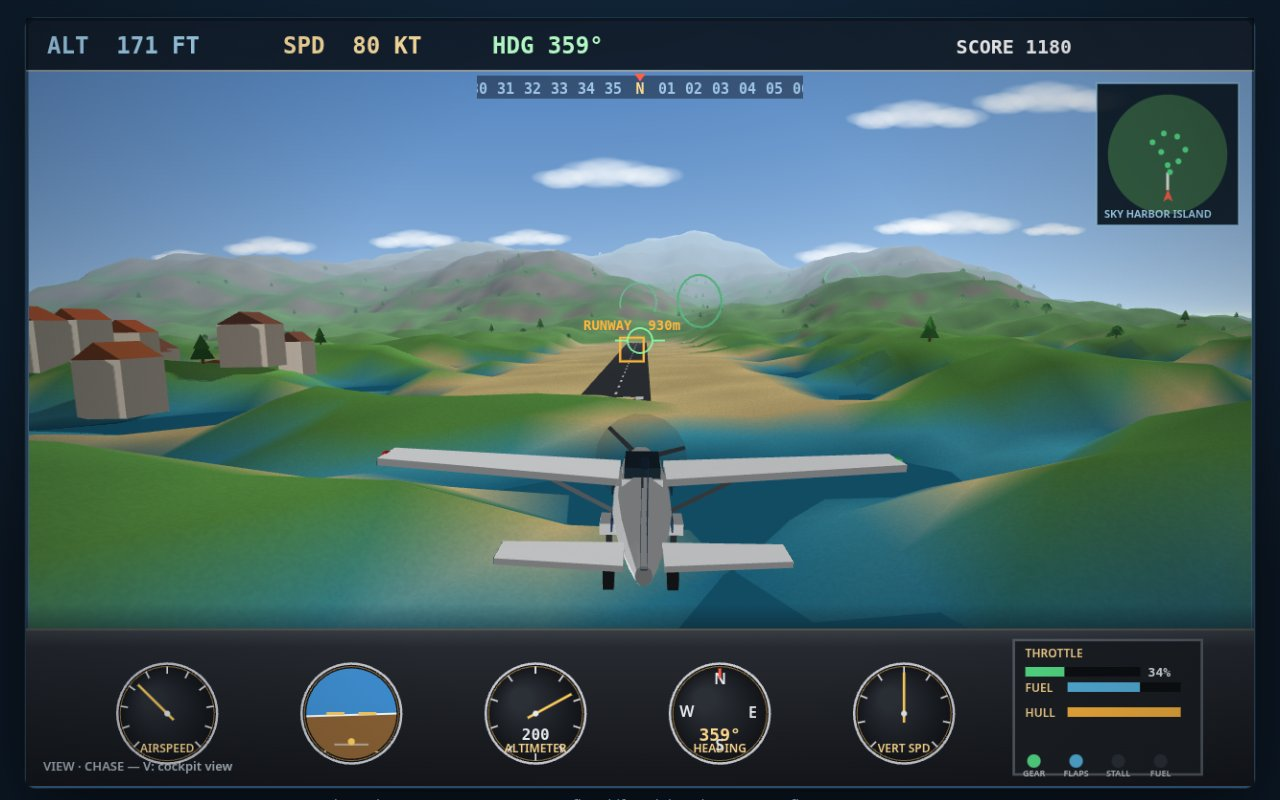
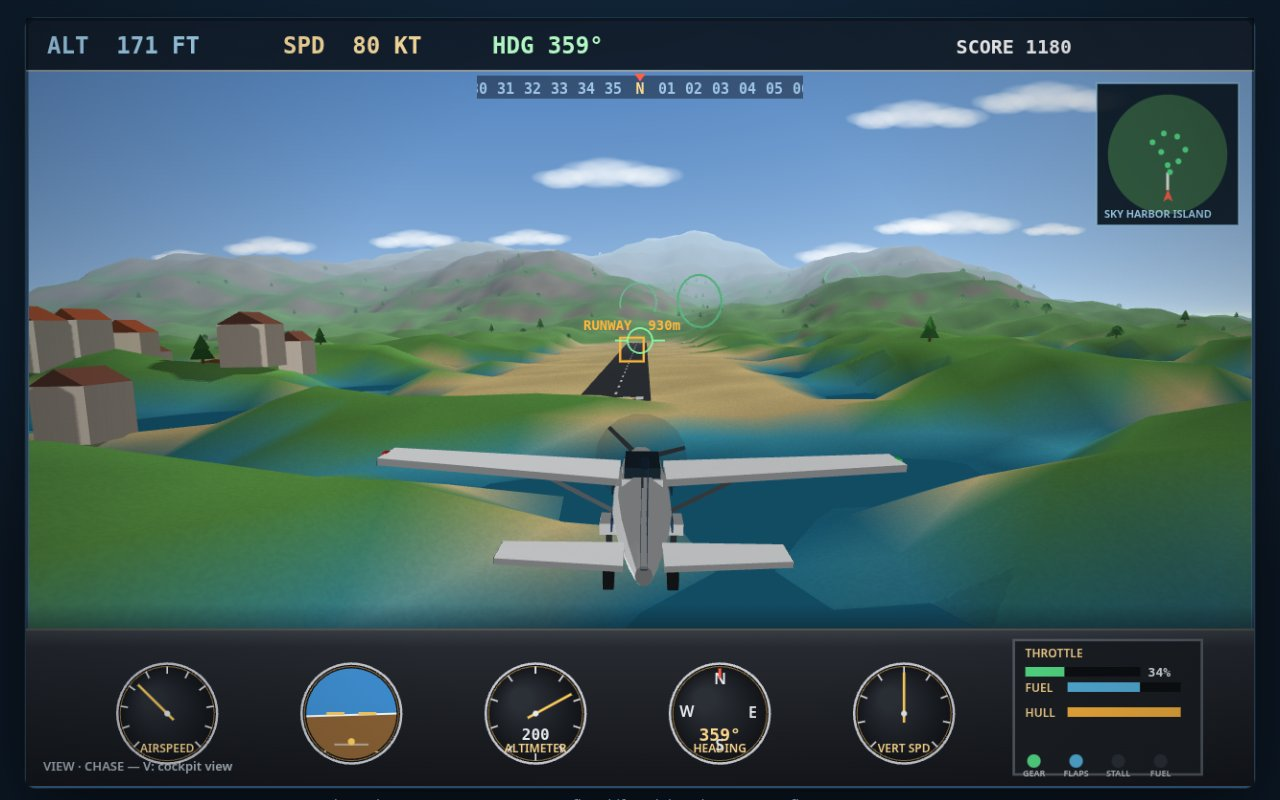
v6: real lateral-directional flight model (roll-rate command, bank hold, Dutch roll)

diff --git a/game/src/physics.js b/game/src/physics.js
@@ -15,6 +15,7 @@ export function createPlane() {
     heading: 0, // radians, 0 = north (-z), clockwise positive
     pitch: 0, roll: 0,
     att: 0, attVel: 0, // nose attitude and its rate
+    rollRate: 0, yawRate: 0, // body rates from the lateral-directional model
     slip: 0, aoa: 0, loadFactor: 1, verticalAir: 0, t: 0,
     gearSpring: 0, gearSpringVel: 0, flapTransient: 0, flapsPrev: 0,
     speed: 52, // m/s
@@ -46,17 +47,60 @@ export function stepPlane(p, input, dt, groundAt) {
   if (input.throttleUp) p.throttle = clamp(p.throttle + 0.55 * t, 0, 1);
   if (input.throttleDown) p.throttle = clamp(p.throttle - 0.55 * t, 0, 1);
 
-  // --- control response with inertia: the airframe takes time to answer ---
-  const rollTarget = input.roll * 1.02;
-  const rollBefore = p.roll;
-  p.roll += (rollTarget - p.roll) * (1 - Math.exp(-3.4 * t));
-  const rollRate = (p.roll - rollBefore) / Math.max(t, 0.001);
-
-  // engine torque: a big propeller at full power and low speed tries to
-  // roll the airframe against its rotation; the ailerons shrug it off
-  // as speed builds, but on a slow climb-out it needs a touch of stick
-  if (p.airborne) {
-    p.roll -= (p.throttle - 0.25) * 0.10 * (42 / Math.max(p.speed, 26)) * t;
+  // --- lateral-directional dynamics, after JSBSim's coefficient build-up ---
+  // State: sideslip beta (kept in p.slip), roll rate, yaw rate, bank. The
+  // aileron commands roll RATE, not bank angle: centre the stick and the
+  // rolling stops, but the bank STAYS — only the slow spiral mode coaxes
+  // it back, over a minute or more. Sideslip couples everything: a banked
+  // aeroplane slides toward its low wing, the fin weathercocks the nose
+  // into the relative wind, dihedral rolls against the slip — and the
+  // lightly damped weave that falls out of the loop is the Dutch roll.
+  // The derivatives below are dimensional (per radian), taken from the
+  // classic light-aeroplane data sets JSBSim ships, scaled from the
+  // 52 m/s trim by dynamic pressure: stiffness and control power with
+  // v^2, damping with v. Measured on this airframe: roll subsidence
+  // tau ~0.12 s, steady roll ~65 deg/s, Dutch roll period ~2 s damped
+  // in a couple of cycles, and a spiral mode so slow the bank is still
+  // within a few degrees after 30 s hands-off — it settles into a
+  // gentle sustained turn rather than levelling itself.
+  const vRef = Math.max(p.speed, 18) / TRIM_SPEED;
+  const s1 = vRef;            // damping derivatives scale ~ v
+  const s2 = vRef * vRef;     // stiffness / control derivatives ~ v^2
+  const Yb = -0.14 * s1;      // side-force damping
+  const Lb = -7.5 * s2;       // dihedral effect: roll due to sideslip
+  const Lp = -8.7 * s1;       // roll damping (roll subsidence)
+  const Lr = 2.2 * s1;        // roll due to yaw rate
+  const Lda = 13.0 * s2;      // aileron power, per unit stick
+  const Nb = 7.3 * s2;        // weathercock stability (the fin)
+  const Np = -0.36 * s1;      // yaw due to roll rate
+  const Nr = -1.9 * s1;       // yaw damping (the fin again)
+  const Nda = -0.84 * s2;     // adverse yaw, per unit stick
+  // engine torque as a rolling moment, and P-factor as a yawing moment:
+  // both fight through the same damping as everything else now
+  const torque = p.airborne ? -(p.throttle - 0.55) * 0.38 * (42 / Math.max(p.speed, 26)) : 0;
+  const pFactor = -(p.throttle - 0.35) * 0.05 * (56 / Math.max(p.speed, 28));
+  const steps = Math.max(1, Math.ceil(t / 0.0167));
+  const h = t / steps;
+  for (let i = 0; i < steps; i++) {
+    const beta = p.slip;
+    const pr = p.rollRate;
+    const rr = p.yawRate;
+    const sinR = Math.sin(p.roll);
+    const betaDot = Yb * beta + (G / Math.max(p.speed, 18)) * sinR * (1 + 0.35 * sinR * sinR) - rr;
+    let pDot = Lb * beta + Lp * pr + Lr * rr + Lda * input.roll + torque;
+    if (p.stall) pDot += Math.sin(p.t * 1.9) * 2.0; // a wing drops at the break
+    const rDot = Nb * beta + Np * pr + Nr * rr + Nda * input.roll + pFactor;
+    p.slip = clamp(beta + betaDot * h, -0.5, 0.5);
+    p.rollRate = pr + pDot * h;
+    p.yawRate = rr + rDot * h;
+    if (p.onGround) {
+      p.rollRate *= Math.exp(-6 * h);
+      p.yawRate *= Math.exp(-4 * h);
+      p.slip *= Math.exp(-4 * h);
+    }
+    p.roll = clamp(p.roll + p.rollRate * h, -1.25, 1.25);
+    if (p.onGround) p.roll *= Math.exp(-3 * h); // the gear settles wings-level
+    p.heading += p.yawRate * h;
   }
 
   // flaps travel: deploying them balloons the aeroplane upward for a
@@ -67,7 +111,9 @@ export function stepPlane(p, input, dt, groundAt) {
   }
   p.flapTransient *= Math.exp(-1.7 * t);
 
-  p.attVel += ((input.pitch * 0.8) - p.attVel) * Math.min(1, 5.2 * t);
+  // the elevator's bite scales with dynamic pressure too: mushy when slow
+  const effP = clamp(0.55 + 0.45 * s2, 0.55, 1.3);
+  p.attVel += ((input.pitch * 0.8 * effP) - p.attVel) * Math.min(1, 5.2 * t);
   p.att += p.attVel * t;
   // longitudinal stability: left alone the nose settles back toward the path
   p.attVel += (p.pitch - p.att) * 0.55 * t;
@@ -96,16 +142,9 @@ export function stepPlane(p, input, dt, groundAt) {
   p.pitch += clamp(gammaRate, -1.4, 1.4) * t;
   p.pitch = clamp(p.pitch, -1.05, 0.8);
 
-  // --- the turn: g·tan(bank)/v, plus adverse yaw and a touch of P-factor ---
-  // heading is a true bearing: forward = (sin h, -cos h), so a right bank
-  // (roll > 0) must INCREASE it. (A minus here mirrors the whole world
-  // against the compass the pilot is steering by.)
-  const yawRate = (G * Math.tan(p.roll) / Math.max(p.speed, 24)) * 1.45;
-  p.heading += yawRate * t;
-  p.heading -= rollRate * 0.055 * t; // adverse yaw drags the nose out of the roll
-  p.heading -= (p.throttle - 0.35) * 0.012 * t * (56 / Math.max(p.speed, 28));
-  const slipTarget = clamp((rollTarget - p.roll) * 1.1, -1, 1);
-  p.slip += (slipTarget - p.slip) * (1 - Math.exp(-2.6 * t));
+  // --- the turn itself falls out of the lateral model above: heading was
+  // integrated from the yaw rate the fin, the slip and the bank produce,
+  // which settles within a few percent of the coordinated g·tan(bank)/v ---
 
   // --- energy: thrust against drag, gravity taxing every climb ---
   const thrust = p.throttle * 33 * (p.fuel > 0 ? 1 : 0);
@@ -139,8 +178,12 @@ export function stepPlane(p, input, dt, groundAt) {
   p.fuel = Math.max(0, p.fuel - (0.16 + p.throttle * 0.85) * t);
 
   // --- ground contact (same strip rules as always) ---
+  // weight on wheels: once she has settled, gusts and ground-effect lift
+  // cannot pluck her off the runway again — she stays pinned until the
+  // wing is genuinely flying (lift well past weight)
   const floor = ground + 3.2;
-  if (p.y <= floor) {
+  const touching = p.y <= floor || (p.onGround && p.y <= floor + 0.6 && liftN < 1.3);
+  if (touching) {
     p.y = floor;
     const hard = -p.vy;
     const onRunwayBench = Math.abs(p.x) < 60 && Math.abs(p.z - 1750) < 640 && ground < 20;

diff --git a/game/src/cockpit.js b/game/src/cockpit.js
@@ -113,7 +113,7 @@ export function drawCockpit(ctx, w, h, plane, t) {
   ctx.stroke();
   ctx.fillStyle = '#ffcf5e';
   ctx.beginPath();
-  ctx.arc(xs[1] + (plane.slip || 0) * r * 0.3, ballY - 3, 3.6, 0, Math.PI * 2);
+  ctx.arc(xs[1] + Math.max(-0.3, Math.min(0.3, plane.slip || 0)) * r * 1.1, ballY - 3, 3.6, 0, Math.PI * 2);
   ctx.fill();
 
   // 3 altimeter (ft), one revolution = 1000 ft

diff --git a/README.md b/README.md
@@ -44,7 +44,10 @@ altimeter, heading, vertical speed, throttle, fuel, hull — is live.
   network requests. Serve it with `node serve.ts` and open
   http://localhost:8080, or any static file server.
   - `game/src/terrain.js` — the island heightfield, runway, ring course, scenery
-  - `game/src/physics.js` — the flight model: lift, stall, fuel, damage,
+  - `game/src/physics.js` — the flight model: a coefficient build-up
+    lateral-directional model in the JSBSim style (ailerons command roll
+    rate, so a bank holds hands-off; sideslip, dihedral effect, adverse
+    yaw and Dutch roll included), plus lift, stall with a wing drop,
     engine torque, flap-travel ballooning and a sprung landing gear
   - `game/src/glworld.js` — the WebGL world: terrain mesh with real-time sun
     shadows, faceted town and trees, the 3D aeroplane, chase and cockpit cameras
